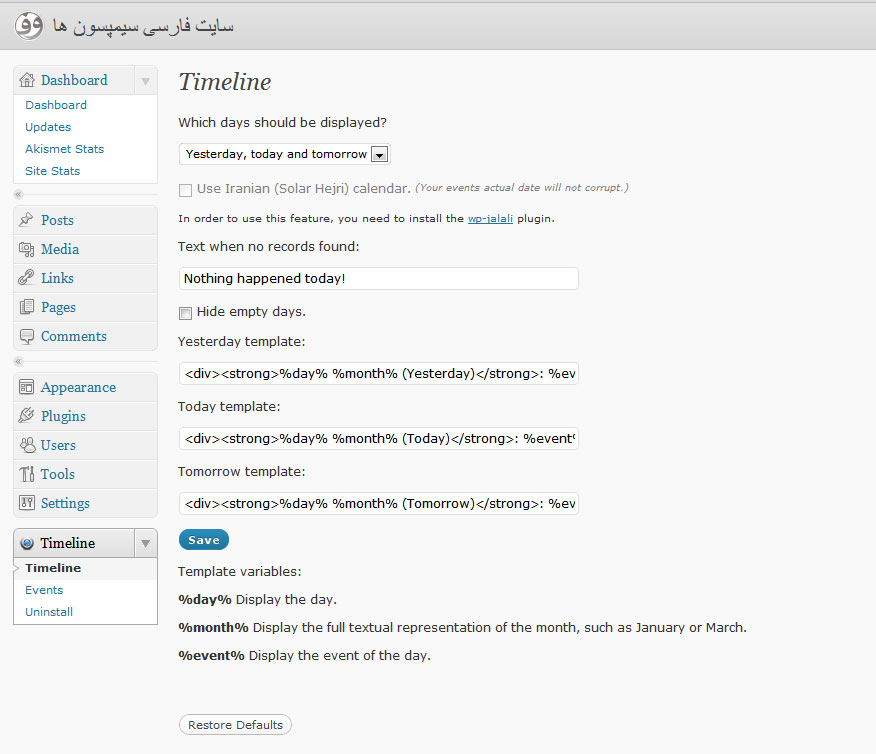
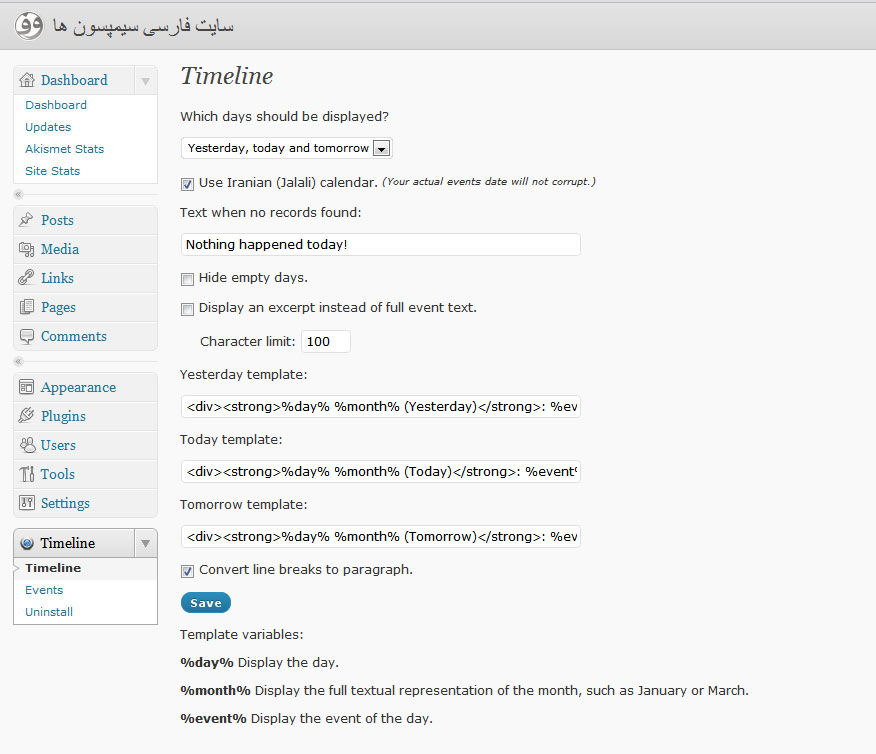
'ver1.1'
git-svn-id: https://plugins.svn.wordpress.org/timeline-calendar/trunk@405389 b8457f37-d9ea-0310-8a92-e5e31aec5664

Changed region(s): [[0.1849, 0.1525, 0.863, 0.9761], [0.1849, 0.0915, 0.3082, 0.122]]

diff --git a/timeline.php b/timeline.php
@@ -3,7 +3,7 @@
 Plugin Name: Timeline Calendar
 Plugin URI: 
 Description: Make your own timeline calendar with many options!
-Version: 1.0.3
+Version: 1.1
 Author: Omid Korat
 Author URI: http://dementor.ir/
 */
@@ -26,17 +26,29 @@ function checktimeline(){
     if (get_option('timeline_formatt') == '') update_option('timeline_formatt', '<div><strong>%day% %month% ('.__('Tomorrow', 'timeline').')</strong>: %event%</div>');
     if (get_option('timeline_break') == '') update_option('timeline_break', '1');
     if (get_option('timeline_days') == '') update_option('timeline_days', '2');
-    if (checkjalali() and WPLANG == 'fa_IR') { if (get_option('timeline_jalali') == '') update_option('timeline_jalali', '1'); }
 }
 
 function checkjalali($plugin = false){
-
     if (function_exists('gregorian_to_jalali') and function_exists('jalali_to_gregorian')) {
-        if (get_option('timeline_jalali') == '0') {
+        if (get_option('timeline_jalali') == '') {
             if ($plugin) {
+                update_option('timeline_jalali', '1');
                 return true;
             } else {
-                return false;
+                if (defined('MPS_JD_OPTIONS_NAME')) {
+                    $mps_jd_optionsDB = get_option(MPS_JD_OPTIONS_NAME);
+                    $mps_jd_autodate = $mps_jd_optionsDB['mps_jd_autodate'];
+                    if ($mps_jd_autodate==true) {
+                        update_option('timeline_jalali', '1');
+                        return true;
+                    } else {
+                        update_option('timeline_jalali', '0');
+                        return false;
+                    }
+                } else {
+                    update_option('timeline_jalali', '0');
+                    return false;
+                }
             }
         } else {
             return true;
@@ -139,7 +151,7 @@ function timeline_handle()
             update_option('timeline_break', '');
             update_option('timeline_excerpt', '');
             update_option('timeline_excerptch', '100');
-            if (!checkjalali() or WPLANG != 'fa_IR') { update_option('timeline_jalali', ''); } else {
+            if (!checkjalali()) { update_option('timeline_jalali', ''); } else {
             update_option('timeline_jalali', '1');
             }
             checktimeline();
@@ -162,7 +174,7 @@ function timeline_handle()
         echo ' selected="selected"';
     } ?>><?php echo __('Yesterday, today and tomorrow', 'timeline'); ?></option>
 	</select></p>
-    <p><label<?php if (!checkjalali(true)) echo ' style="color: gray;"'; ?>><input<?php if (!checkjalali(true)) { echo ' disabled="disabled"'; } else { if (get_option('timeline_jalali') == '1') { echo ' checked="checked"'; } } ?> name="jalali" type="checkbox" value="1" />&nbsp;<?php echo __('Use Iranian (Jalali) calendar.', 'timeline'); ?></label>&nbsp;<small style="font-style: italic;<?php if (!checkjalali(true)) echo ' color: gray;';?>">(<?php echo __('Your events actual date will not corrupt.', 'timeline'); ?>)</small></p>
+    <p><label<?php if (!checkjalali(true)) echo ' style="color: gray;"'; ?>><input<?php if (!checkjalali(true)) { echo ' disabled="disabled"'; } else { if (get_option('timeline_jalali') == '1') { echo ' checked="checked"'; } } ?> name="jalali" type="checkbox" value="1" />&nbsp;<?php echo __('Use Iranian (Jalali) calendar.', 'timeline'); ?></label>&nbsp;<small style="font-style: italic;<?php if (!checkjalali(true)) echo ' color: gray;';?>">(<?php echo __('Your actual events date will not corrupt.', 'timeline'); ?>)</small></p>
     <?php if (!checkjalali(true)) echo '<p><small>'.__('In order to use this feature, you need to install the <a href="http://wordpress.org/extend/plugins/wp-jalali/">wp-jalali</a> plugin.', 'timeline').'</small></p>'; ?>
 	<p><?php echo __('Text when no records found:', 'timeline'); ?></p>
 	<input name="empty" style="width: 400px" type="text" value="<?php  echo htmlspecialchars(stripslashes(get_option('timeline_empty'))); ?>" />
@@ -211,7 +223,7 @@ function events_page()
         dbDelta($sql);
     }
 
-    if (checkjalali()) {
+    if (checkjalali() and get_option('timeline_jalali') != '0') {
         list($ey, $em, $ed) = gregorian_to_jalali(date("Y"), date("n"), date("j"));
     } else {
         $ed = date("j");
@@ -224,7 +236,7 @@ function events_page()
             if ($_POST['event'] != '') { 
             $day = $_POST['date'];
             $month = $_POST['month'];
-            if (checkjalali()) {
+            if (checkjalali() and get_option('timeline_jalali') != '0') {
             list($y, $month, $day) = jalali_to_gregorian(date("Y"), $_POST['month'], $_POST['date']);
             }
             $tcquery = $wpdb->get_var("SELECT * FROM ".TABLE_NAME." WHERE day=$day AND month=$month");
@@ -240,7 +252,7 @@ function events_page()
         } elseif (isset($_POST['timeline_edit'])) {
             $day = $_POST['date'];
             $month = $_POST['month'];
-            if (checkjalali()) {
+            if (checkjalali() and get_option('timeline_jalali') != '0') {
             list($y, $month, $day) = jalali_to_gregorian(date("Y"), $_POST['month'], $_POST['date']);
             }
             $eevent = esc_attr($_POST['event']);
@@ -256,7 +268,7 @@ function events_page()
         $load = $wpdb->get_row("SELECT day, month, event FROM ".TABLE_NAME." WHERE id = $eid");
         $ed = $load->day;
         $em = $load->month;
-        if (checkjalali()) {
+        if (checkjalali() and get_option('timeline_jalali') != '0') {
         list($y, $em, $ed) = gregorian_to_jalali(date("Y"), $load->month, $load->day);
         }
         $ee = $load->event;
@@ -295,7 +307,7 @@ function events_page()
 	<?php for ($i = 0; $i < 12; $i++) {
         $i3 = $i + 1;
         if ($i3 == $em) {
-            if (checkjalali()) {
+            if (checkjalali() and get_option('timeline_jalali') != '0') {
             echo '<option selected="selected" value="' . $i3 . '">' . $jmonth[$i] .
                 '</option>';  
             } else {
@@ -303,7 +315,7 @@ function events_page()
                 '</option>';
             }
         } else {
-            if (checkjalali()) {
+            if (checkjalali() and get_option('timeline_jalali') != '0') {
             echo '<option value="' . $i3 . '">' . $jmonth[$i] . '</option>';
             } else {
             echo '<option value="' . $i3 . '">' . $gmonth[$i] . '</option>';
@@ -341,7 +353,7 @@ function events_page()
 
         <?php $events = $wpdb->get_results("SELECT * FROM ".TABLE_NAME."  ORDER BY id ASC");
         foreach ($events as $event) {
-            if (checkjalali()) {
+            if (checkjalali() and get_option('timeline_jalali') != '0') {
                 list($y, $m, $d) = gregorian_to_jalali(date("Y"), $event->month, $event->day);
                 $m = $m-1;
             } else {
@@ -351,7 +363,7 @@ function events_page()
             ?>
         
             <tr>
-            		<td valign="top"><?php if (checkjalali()) { echo $d.' '.$jmonth[(int)$m]; } else { echo $d.' '.$gmonth[(int)$m]; } ?></td>
+            		<td valign="top"><?php if (checkjalali() and get_option('timeline_jalali') != '0') { echo $d.' '.$jmonth[(int)$m]; } else { echo $d.' '.$gmonth[(int)$m]; } ?></td>
             		<td valign="top"><?php echo ($event->event); ?></td>
             		<td valign="top"><a href="<?php echo get_admin_url().'admin.php?page=events&amp;edit=' . $event->id; ?>"><?php echo __('Edit', 'timeline'); ?></a>&nbsp;&nbsp;<a href="<?php echo get_admin_url() .
 'admin.php?page=events&amp;delete=' . $event->id; ?>" onclick="javascript:return confirm('<?php echo __('Are you sure?', 'timeline'); ?>')"><?php echo __('Delete', 'timeline'); ?></a></td>
@@ -369,6 +381,9 @@ function mytimeline(){
     
     if (get_option('timeline_days') == '1') {
         maketimeline(date("j"), date("n"), $format, $empty);
+        if (get_option('timeline_hidempty') == '0') {
+        check_all_empty (array(date("j")), array(date("n")));
+        }
     } else {
         $yd = array(date("j")-1 ,date("n"));
         $td = array(date("j")+1 ,date("n"));
@@ -407,6 +422,9 @@ function mytimeline(){
         maketimeline($yd[0], $yd[1], $formaty, $empty);
         maketimeline(date("j"), date("n"));
         maketimeline($td[0], $td[1], $formatt, $empty);
+        if (get_option('timeline_hidempty') == '0') {
+        check_all_empty (array($yd[0], date("j"), $td[0]), array($yd[1], date("n"), $td[1]));
+        }
     }
     
 }
@@ -424,12 +442,17 @@ function maketimeline($day = 'cycle', $month = 'cycle', $format = '', $empty = '
     FROM ".TABLE_NAME."
     WHERE DAY =$day AND MONTH=$month
     ");
-    if (checkjalali()) {
+    if (checkjalali() and get_option('timeline_jalali') != '0') {
     list($y, $month, $day) = gregorian_to_jalali(date("Y"), $month, $day);
+        if (defined('MPS_JD_OPTIONS_NAME')) {
+        $mps_jd_optionsDB = get_option(MPS_JD_OPTIONS_NAME);
+        $mps_jd_farsinum_date = $mps_jd_optionsDB['mps_jd_farsinum_date'];
+            if ($mps_jd_farsinum_date==true) $day = farsi_num($day);
+        }
     }
     $month =$month-1;
     $format = str_replace("%day%", $day, $format);
-    if (checkjalali()) {
+    if (checkjalali() and get_option('timeline_jalali') != '0') {
     $format = str_replace("%month%", $jmonth[$month], $format);
     } else {
     $format = str_replace("%month%", $gmonth[$month], $format);
@@ -440,10 +463,14 @@ function maketimeline($day = 'cycle', $month = 'cycle', $format = '', $empty = '
            echo $format;
         }
     } else {
+        $newtx = stripslashes($load->event);
+        if (defined('MPS_JD_OPTIONS_NAME')) {
+        $mps_jd_optionsDB = get_option(MPS_JD_OPTIONS_NAME);
+        $mps_jd_farsinum_content = $mps_jd_optionsDB['mps_jd_farsinum_content'];
+            if ($mps_jd_farsinum_content==true) $newtx = farsi_num($newtx);
+        }
         if (get_option('timeline_excerpt') == '1' and strlen(stripslashes($load->event)) >= get_option('timeline_excerptch')) {
             $newtx = '<span id="tc1'.$day.'">'.substr(stripslashes($load->event), 0, get_option('timeline_excerptch')) . ' <a href="javascript:timeline(\'tc2'.$day.'\', \'tc1'.$day.'\');">'.__('Continue...', 'timeline').'</a></span><span style="display: none" id="tc2'.$day.'">' . stripslashes($load->event).'</span>';
-        } else {
-            $newtx = stripslashes($load->event);
         }
         $format = str_replace("%event%", $newtx, $format);
         if (get_option('timeline_break') == '1') {
@@ -452,6 +479,23 @@ function maketimeline($day = 'cycle', $month = 'cycle', $format = '', $empty = '
         echo $format;
     }
     
+}
+
+function check_all_empty($days, $month) {
+    global $wpdb;
+    
+    $emnu = 0;
+    $countarr = count($days)-1;
+    for ($i = 0; $i <= $countarr; $i++) {
+        $load = $wpdb->get_row("SELECT event
+        FROM ".TABLE_NAME."
+        WHERE DAY =$days[$i] AND MONTH=$month[$i]
+        ");
+        if ($load->event == '') $emnu = $emnu+1;
+        if ($emnu == count($days)) {
+            echo get_option('timeline_empty');
+        }
+    }
 }
 
 function add_timelinescript() {

diff --git a/tcuninstall.php b/tcuninstall.php
@@ -1,5 +1,5 @@
 <?php global $wpdb;
-$tc_settings = array('timeline_empty', 'timeline_hidempty', 'timeline_formaty', 'timeline_format', 'timeline_formatt', 'timeline_days', 'timeline_jalali', 'timeline_break');
+$tc_settings = array('timeline_empty', 'timeline_hidempty', 'timeline_formaty', 'timeline_format', 'timeline_formatt', 'timeline_days', 'timeline_jalali', 'timeline_break', 'timeline_excerpt', 'timeline_excerptch');
 ?>
 <div class='wrap'>
 <form name="frmtimelineun" method="post" action="">
